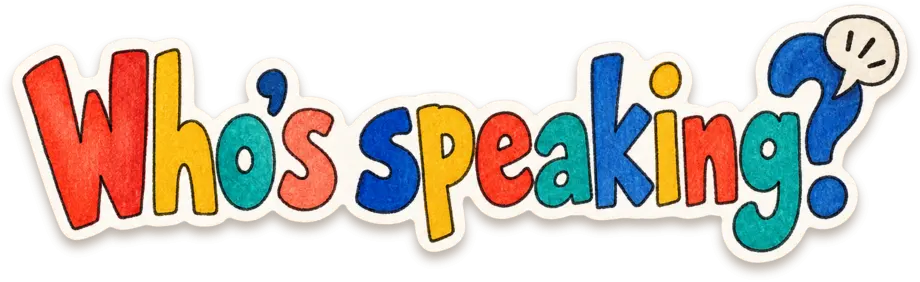
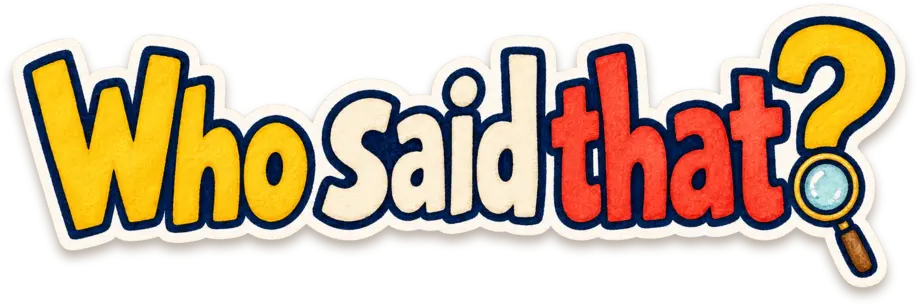
Redo the Huashuo animation as a modern mystery
A mystery paperback on a rainy street lets out lines nobody claims; on the
detective's board the cast (detective, suspect, witness, inspector) gets
pinned up, each line finds its speaker and each speaker a voice; the cast hops
into a Mac (local, free, checked by ear); case closed, an M4B audiobook.
Replaces the classical book and costumes, which Huashuo does not handle well.

diff --git a/site/showcases/huashuo/composition.js b/site/showcases/huashuo/composition.js
@@ -1,130 +1,185 @@
 // @ts-check
-// 话说 Huashuo, 21 seconds.
+// 话说 Huashuo, 21 seconds: a mystery novel becomes a multi-voice audiobook.
 //
-// 0.0   A Chinese novel drops open. "Who's speaking?" Three characters climb out of its pages:
-//       an old storyteller, a young woman, a cheeky boy.
-// 4.8   Each one speaks in turn, in a voice of their own: a coloured sound wave and a tag for
-//       each (old and warm, young and bright, cheeky). 16 voices to choose from.
-// 10.4  At night, on a Mac: they hop into the laptop. Synthesised on your own machine; free.
-// 15.4  Out comes the audiobook, with chapters, for your headphones: multi-voice audiobooks.
+// 0.0   A mystery paperback lands on a rainy street. Lines float out of it with no one to
+//       say them: "I was home all night!", "I heard a scream…", "Coffee first." Who said that?
+// 4.6   The detective's board: the cast gets pinned up and joined with red string, and each
+//       line finds its speaker (an LLM works out who says what). Then each character gets a
+//       voice of their own: calm and sharp, nervous and fast, old and warm, deep and gruff.
+// 10.6  At night, the whole cast hops into a laptop: the voices are made on your own Mac,
+//       free with a local LLM, and every line is checked by ear.
+// 15.6  Case closed: an audiobook with chapters, for your headphones.
 
-import { C } from '../../js/anim/kit.js';
+import { C, El, FONT } from '../../js/anim/kit.js';
 import assets from './assets.js';
+
+/** The cast, left to right: sprite, tape colour, and the string keys of its line and its voice. */
+const CAST = [
+  { name: 'detective', tape: C.mustard, line: 'lineDetective', voice: 'voiceDetective', h: 350 },
+  { name: 'suspect', tape: C.teal, line: 'lineSuspect', voice: 'voiceSuspect', h: 335 },
+  { name: 'witness', tape: C.pink, line: 'lineWitness', voice: 'voiceWitness', h: 315 },
+  { name: 'inspector', tape: C.red, line: 'lineInspector', voice: 'voiceInspector', h: 350 },
+];
 
 /** @type {import('../../js/anim/kit.js').Composition} */
 export default {
   duration: 21,
-  poster: 7.4,
+  poster: 9.6,
   base: import.meta.url,
   assets,
   strings: {
     en: {
-      who: "Who's\nspeaking?",
+      who: 'Who said that?',
       audiobooks: 'Multi-voice\naudiobooks',
-      old: 'old · warm',
-      young: 'young · bright',
-      cheeky: 'cheeky',
-      voices: '16 voices',
-      mac: 'on your Mac',
-      free: 'free, if you like',
-      m4b: 'M4B · chapters',
+      lineDetective: 'Nobody leaves.',
+      lineSuspect: 'I was home all night!',
+      lineWitness: 'I heard a scream…',
+      lineInspector: 'Coffee first.',
+      voiceDetective: 'calm · sharp',
+      voiceSuspect: 'nervous · fast',
+      voiceWitness: 'old · warm',
+      voiceInspector: 'deep · gruff',
+      cast: 'The cast',
+      llm: 'an LLM finds who said each line',
+      voices: '16 voices to cast from',
+      mac: 'made on your Mac',
+      free: 'free with a local LLM',
+      check: 'every line checked by ear',
+      closed: 'CASE CLOSED',
+      m4b: 'M4B · chapters · cover',
     },
     zh: {
-      who: '谁在说话？',
+      who: '这句话是谁说的？',
       audiobooks: '多角色有声书',
-      old: '沧桑 · 温和',
-      young: '年轻 · 清亮',
-      cheeky: '调皮',
-      voices: '16 种音色',
-      mac: '在 Mac 上本地合成',
-      free: '可以零成本',
-      m4b: 'M4B · 带章节',
+      lineDetective: '谁也别走。',
+      lineSuspect: '我整晚都在家！',
+      lineWitness: '我听见一声尖叫……',
+      lineInspector: '先来杯咖啡。',
+      voiceDetective: '冷静 · 犀利',
+      voiceSuspect: '紧张 · 语速快',
+      voiceWitness: '年迈 · 温和',
+      voiceInspector: '低沉 · 粗声',
+      cast: '登场人物',
+      llm: '大模型找出每句话是谁说的',
+      voices: '16 种音色任你挑选',
+      mac: '在你的 Mac 上本地合成',
+      free: '配本地大模型，零成本',
+      check: '每一句都会回听校对',
+      closed: '结案',
+      m4b: 'M4B · 章节 · 封面',
     },
   },
 
   build(k) {
-    // ---- 1. who's speaking? ----
-    const s1 = k.scene('bg_paper');
-    k.pushIn(s1, 0, 10.4, 1.04);
-    const book = k.sprite(s1, 'book', { x: 1000, y: 985, w: 620, z: 10 });
-    k.dropIn(book, 0.05, { from: -800 });
-    const who = k.textArt(s1, 'who', { x: 1000, y: 150, w: 820, h: 220 });
-    k.pop(who, 0.6, { dur: 0.5 });
-    k.sway(who, 1.4, 3, { deg: 1.4, period: 2 });
-    k.fadeOut(who, 4.6, 0.25);
-
-    // The characters climb out from behind the book.
-    const grandpa = k.sprite(s1, 'grandpa', { x: 730, y: 680, h: 390, z: 5 });
-    const girl = k.sprite(s1, 'girl', { x: 1000, y: 660, h: 390, z: 4 });
-    const boy = k.sprite(s1, 'boy', { x: 1265, y: 690, h: 330, z: 5 });
-    const people = [grandpa, girl, boy];
-    people.forEach((p, i) => {
-      k.slideIn(p, 1.4 + i * 0.4, { dx: 0, dy: 380, dur: 0.5, ease: 'back.out(2)' });
-      k.sway(p, 2.2 + i * 0.45, 8, { deg: 2, period: 1.5 + i * 0.2 });
+    // ---- 1. who said that? ----
+    const s1 = k.scene('bg_rain');
+    k.pushIn(s1, 0, 4.6, 1.04);
+    const novel = k.sprite(s1, 'novel', { x: 1000, y: 975, h: 470, rot: -4, z: 4 });
+    k.dropIn(novel, 0.1, { from: -900 });
+    k.sway(novel, 0.9, 3.7, { deg: 1, period: 2.4 });
+    // Three lines float up out of the book, nobody attached to them yet.
+    [
+      { key: 'lineSuspect', x: 750, y: 470, rot: -5 },
+      { key: 'lineWitness', x: 1250, y: 430, rot: 4 },
+      { key: 'lineInspector', x: 1010, y: 350, rot: -2 },
+    ].forEach(({ key, x, y, rot }, i) => {
+      const line = k.tag(s1, k.t(key), { x, y, rot, tape: null, size: 44 });
+      k.slideIn(line, 0.8 + i * 0.4, { dx: 1000 - x, dy: 620 - y, dur: 0.5, ease: 'back.out(1.6)' });
+      k.bob(line, 1.4 + i * 0.4, 3, { px: 6, period: 1.3 + i * 0.2 });
     });
-    k.confetti(s1, 1.5, { x: 1000, y: 600, n: 14, spread: 260 });
-
-    // ---- 2. a voice for each ----
-    /**
-     * A voice: a wavy stroke from the speaker's mouth, and a tag.
-     * @param {number} x @param {number} y @param {number} dir 1 right, -1 left
-     * @param {string} color @param {string} label @param {number} at @param {number} tx @param {number} ty where the tag goes
-     */
-    const voice = (x, y, dir, color, label, at, tx, ty) => {
-      let d = `M${x} ${y}`;
-      for (let i = 1; i <= 4; i++) d += ` Q${x + dir * (i * 34 - 17)} ${y + (i % 2 ? -38 : 38)} ${x + dir * i * 34} ${y}`;
-      const wave = k.stroke(s1, d, { color, width: 9 });
-      k.draw(wave, at, 0.45, { ease: 'power2.out' });
-      const tag = k.tag(s1, label, { x: tx, y: ty, rot: dir * 4, tape: color, size: 44 });
-      k.pop(tag, at + 0.2);
-    };
-    voice(650, 360, -1, C.teal, k.t('old'), 4.9, 665, 230);
-    k.hop(grandpa, 4.9, { h: 40 });
-    voice(1050, 300, 1, C.mustard, k.t('young'), 6.2, 1000, 200);
-    k.hop(girl, 6.2, { h: 40 });
-    voice(1330, 420, 1, C.red, k.t('cheeky'), 7.5, 1350, 300);
-    k.hop(boy, 7.5, { h: 55, n: 2 });
-    const voices = k.tag(s1, k.t('voices'), { x: 1000, y: 860, rot: -3, tape: C.pink, size: 60 });
-    voices.el.style.zIndex = '20';
-    k.pop(voices, 8.7);
-    k.sway(voices, 9.1, 1.3, { deg: 2 });
-
-    // ---- 3. on your Mac ----
-    const s2 = k.sheetIn(k.scene('bg_night'), 10.4, { from: 'right' });
-    k.pushIn(s2, 10.4, 5, 1.03);
-    const laptop = k.sprite(s2, 'laptop', { x: 1000, y: 920, w: 720, z: 4 });
-    k.slideIn(laptop, 10.7, { dx: 0, dy: 520, dur: 0.6 });
-    // The three, small, hop in through the screen one after another.
-    ['grandpa', 'girl', 'boy'].forEach((name, i) => {
-      const p = k.sprite(s2, name, { x: 620 + i * 380, y: 560, h: 260, z: 6 });
-      k.pop(p, 11.3 + i * 0.15);
-      k.hop(p, 12.0 + i * 0.3, { h: 60 });
-      k.moveTo(p, 12.4 + i * 0.3, { x: 1000 - (620 + i * 380), y: 120, dur: 0.45, ease: 'power2.in' });
-      k.zoom(p, 12.4 + i * 0.3, { scale: 0.1, dur: 0.45, ease: 'power2.in' });
-      k.hide(p, 12.85 + i * 0.3);
+    [k.doodle(s1, 'text', { x: 560, y: 380, size: 34, text: '?', color: C.mustard }), k.doodle(s1, 'text', { x: 1450, y: 340, size: 30, text: '?', color: C.mustard })].forEach((q, i) => {
+      k.pop(q, 2.1 + i * 0.2);
+      k.boil(q, 2.4, 2.2, { amp: 4, rot: 5 });
     });
-    k.boil(laptop, 13.3, 1.2, { amp: 2, rot: 0.6, fps: 10 });
-    const mac = k.tag(s2, k.t('mac'), { x: 1000, y: 180, rot: -2, tape: C.teal, size: 56 });
-    k.pop(mac, 13.4);
-    const free = k.tag(s2, k.t('free'), { x: 1180, y: 300, rot: 4, tape: C.mustard, size: 46 });
-    k.pop(free, 14.0);
-    const check = k.check(s2, { x: 780, y: 290, size: 60, color: C.mustard });
-    k.draw(check, 14.3, 0.3);
+    const who = k.textArt(s1, 'who', { x: 1000, y: 165, w: 880, h: 220 });
+    k.pop(who, 2.5, { dur: 0.5 });
+    k.sway(who, 3.0, 1.6, { deg: 1.4, period: 1.6 });
 
-    // ---- 4. the audiobook ----
-    const s3 = k.sheetIn(k.scene('bg_paper'), 15.4, { from: 'left' });
-    k.pushIn(s3, 15.4, 5.6, 1.03);
-    const audiobook = k.sprite(s3, 'audiobook', { x: 880, y: 940, h: 480, z: 4 });
-    k.pop(audiobook, 15.8, { dur: 0.5 });
-    k.sway(audiobook, 16.3, 4.7, { deg: 1.6 });
-    const phones = k.sprite(s3, 'headphones', { x: 1230, y: 900, h: 330, z: 5 });
+    // ---- 2. the cast, and a voice for each ----
+    const s2 = k.sheetIn(k.scene('bg_board'), 4.6, { from: 'right' });
+    k.pushIn(s2, 4.6, 6, 1.03);
+    const castTag = k.tag(s2, k.t('cast'), { x: 1000, y: 110, rot: -2, tape: C.red, size: 58, font: FONT.display });
+    k.pop(castTag, 4.9);
+    const xs = [628, 876, 1124, 1372];
+    const people = CAST.map((c, i) => {
+      const p = k.sprite(s2, c.name, { x: xs[i], y: 985, h: c.h, z: 4 });
+      k.pop(p, 5.0 + i * 0.18);
+      k.sway(p, 5.5 + i * 0.18, 5, { deg: 1.6, period: 1.4 + i * 0.15 });
+      return p;
+    });
+    // Pins above their heads, and the red string between them.
+    const pinY = CAST.map((c) => 985 - c.h - 28);
+    xs.forEach((x, i) => {
+      const pin = k.el(s2.cam.el, 'div', '', {
+        position: 'absolute', left: `${x - 14}px`, top: `${pinY[i] - 14}px`, width: '28px', height: '28px', borderRadius: '50%', zIndex: '6',
+        background: 'radial-gradient(circle at 35% 35%, #ff9a8a, #d9483b 55%, #8a1f17)', boxShadow: '0 4px 4px rgb(0 0 0 / 0.35)',
+      });
+      k.pop(k.actor(new El(pin, { opacity: 0 })), 5.3 + i * 0.12, { dur: 0.25, tilt: 0 });
+    });
+    const string = [0, 1, 2].map((i) =>
+      k.stroke(s2, `M${xs[i]} ${pinY[i]} Q${(xs[i] + xs[i + 1]) / 2} ${Math.max(pinY[i], pinY[i + 1]) + 46} ${xs[i + 1]} ${pinY[i + 1]}`, { color: C.red, width: 6 }),
+    );
+    k.draw(string, 5.8, 0.35, { stagger: 0.18 });
+
+    // Each line finds its speaker; then each speaker gets a voice.
+    const llm = k.tag(s2, k.t('llm'), { x: 1000, y: 220, rot: 1, tape: C.teal, size: 44 });
+    k.pop(llm, 6.4);
+    k.fadeOut(llm, 8.25, 0.2);
+    CAST.forEach((c, i) => {
+      const y = i % 2 ? 330 : 420;
+      const line = k.tag(s2, k.t(c.line), { x: xs[i], y, rot: i % 2 ? 4 : -4, tape: null, size: 32 });
+      k.pop(line, 6.7 + i * 0.3);
+      k.hop(people[i], 6.7 + i * 0.3, { h: 30 });
+      k.fadeOut(line, 8.2, 0.2);
+      const voice = k.tag(s2, k.t(c.voice), { x: xs[i], y, rot: i % 2 ? -3 : 3, tape: c.tape, size: 34, bg: C.paper });
+      k.pop(voice, 8.4 + i * 0.22);
+    });
+    const voices = k.tag(s2, k.t('voices'), { x: 1000, y: 220, rot: -2, tape: C.mustard, size: 50, bg: C.mustard });
+    k.pop(voices, 9.4);
+    k.sway(voices, 9.8, 0.8, { deg: 2.5, period: 0.8 });
+
+    // ---- 3. made on your Mac ----
+    const s3 = k.sheetIn(k.scene('bg_desk'), 10.6, { from: 'left' });
+    k.pushIn(s3, 10.6, 5, 1.03);
+    const laptop = k.sprite(s3, 'laptop', { x: 1000, y: 935, w: 640, z: 4 });
+    k.slideIn(laptop, 10.9, { dx: 0, dy: 520, dur: 0.6 });
+    CAST.forEach((c, i) => {
+      const x = 635 + i * 243;
+      const p = k.sprite(s3, c.name, { x, y: 600, h: 220, z: 6 });
+      k.pop(p, 11.3 + i * 0.12);
+      k.hop(p, 11.9 + i * 0.25, { h: 50 });
+      k.moveTo(p, 12.3 + i * 0.25, { x: 1000 - x, y: 140, dur: 0.42, ease: 'power2.in' });
+      k.zoom(p, 12.3 + i * 0.25, { scale: 0.1, dur: 0.42, ease: 'power2.in' });
+      k.hide(p, 12.72 + i * 0.25);
+    });
+    k.boil(laptop, 13.2, 2, { amp: 2, rot: 0.6, fps: 10 });
+    const mac = k.tag(s3, k.t('mac'), { x: 1000, y: 140, rot: -2, tape: C.teal, size: 52 });
+    const free = k.tag(s3, k.t('free'), { x: 1000, y: 245, rot: 2, tape: C.mustard, size: 44 });
+    const check = k.tag(s3, k.t('check'), { x: 1000, y: 345, rot: -1, tape: C.pink, size: 44 });
+    k.pop(mac, 13.1);
+    k.pop(free, 13.7);
+    k.pop(check, 14.3);
+    k.draw(k.check(s3, { x: 690, y: 262, size: 44, color: C.mustard }), 13.9, 0.25);
+    k.draw(k.check(s3, { x: 690, y: 362, size: 44, color: C.mustard }), 14.5, 0.25);
+
+    // ---- 4. case closed ----
+    const s4 = k.sheetIn(k.scene('bg_rain'), 15.6, { from: 'bottom' });
+    k.pushIn(s4, 15.6, 5.4, 1.03);
+    const phone = k.sprite(s4, 'phone', { x: 900, y: 965, h: 470, z: 4 });
+    k.pop(phone, 15.9, { dur: 0.5 });
+    k.sway(phone, 16.4, 4.6, { deg: 1.4 });
+    const phones = k.sprite(s4, 'headphones', { x: 1250, y: 930, h: 300, z: 5 });
     k.dropIn(phones, 16.3, { from: -700 });
     k.bob(phones, 17.0, 4, { px: 6, period: 1.3 });
-    const title = k.textArt(s3, 'audiobooks', { x: 1000, y: 210, w: 900, h: 300 });
+    const title = k.textArt(s4, 'audiobooks', { x: 1000, y: 200, w: 900, h: 290 });
     k.pop(title, 16.8, { dur: 0.5 });
     k.sway(title, 17.3, 3.7, { deg: 1.2, period: 2.4 });
-    const m4b = k.tag(s3, k.t('m4b'), { x: 1220, y: 490, rot: 5, tape: C.red, size: 44 });
-    k.pop(m4b, 17.6);
-    k.confetti(s3, 17.0, { x: 1000, y: 520, n: 22, spread: 320 });
+    const m4b = k.tag(s4, k.t('m4b'), { x: 1250, y: 520, rot: 4, tape: C.teal, size: 40 });
+    k.pop(m4b, 17.5);
+    const stamp = k.tag(s4, k.t('closed'), { x: 780, y: 540, rot: -12, tape: null, size: 64, bg: C.red, color: C.paper, font: FONT.display });
+    stamp.el.style.zIndex = '10';
+    k.tl.fromTo(stamp, { scale: 2.2, opacity: 0 }, { scale: 1, opacity: 1 }, 18.3, { dur: 0.22, ease: 'power3.in' });
+    k.shake(s4, 18.52, 0.35, 10);
+    k.confetti(s4, 17.0, { x: 1000, y: 480, n: 20, spread: 320 });
   },
 };

diff --git a/site/js/hashes.js b/site/js/hashes.js
@@ -26,19 +26,21 @@ export const HASHES = {
   'showcases/8800-simulator/assets/turn.zh.webp': '6a4c5b0eff',
   'showcases/8800-simulator/assets/worked.en.webp': '6320c52df1',
   'showcases/8800-simulator/assets/worked.zh.webp': 'ec68dfcafb',
-  'showcases/huashuo/assets/audiobook.webp': '41cb2d8491',
-  'showcases/huashuo/assets/audiobooks.en.webp': 'c3f1551dc8',
-  'showcases/huashuo/assets/audiobooks.zh.webp': '6e031f251a',
-  'showcases/huashuo/assets/bg_night.webp': '24a496a032',
-  'showcases/huashuo/assets/bg_paper.webp': 'd921c33b82',
-  'showcases/huashuo/assets/book.webp': '5ccab8edfe',
-  'showcases/huashuo/assets/boy.webp': 'fc184186e8',
-  'showcases/huashuo/assets/girl.webp': '0ec29add5c',
-  'showcases/huashuo/assets/grandpa.webp': 'ba82a0af3c',
-  'showcases/huashuo/assets/headphones.webp': 'ba323670b4',
-  'showcases/huashuo/assets/laptop.webp': 'f82e47f59e',
-  'showcases/huashuo/assets/who.en.webp': 'eb66a3c599',
-  'showcases/huashuo/assets/who.zh.webp': '2ac6a7bf73',
+  'showcases/huashuo/assets/audiobooks.en.webp': '5a77861ffa',
+  'showcases/huashuo/assets/audiobooks.zh.webp': '8e96239048',
+  'showcases/huashuo/assets/bg_board.webp': 'be6e97750d',
+  'showcases/huashuo/assets/bg_desk.webp': 'ecdf4ca6b8',
+  'showcases/huashuo/assets/bg_rain.webp': 'c2f8e4d250',
+  'showcases/huashuo/assets/detective.webp': '95665f4907',
+  'showcases/huashuo/assets/headphones.webp': '603bcb66d6',
+  'showcases/huashuo/assets/inspector.webp': '5d93ac8b6a',
+  'showcases/huashuo/assets/laptop.webp': 'e3d117b3d2',
+  'showcases/huashuo/assets/novel.webp': '73788ed2bd',
+  'showcases/huashuo/assets/phone.webp': '85a43db9b0',
+  'showcases/huashuo/assets/suspect.webp': '4f526ca0ed',
+  'showcases/huashuo/assets/who.en.webp': 'a93252d1fb',
+  'showcases/huashuo/assets/who.zh.webp': '1bb3da3c21',
+  'showcases/huashuo/assets/witness.webp': '1e62dd19b7',
   'showcases/leibniz-stepped-reckoner/assets/bg_paper.webp': 'fb1ec6887b',
   'showcases/leibniz-stepped-reckoner/assets/bg_study.webp': '687267835a',
   'showcases/leibniz-stepped-reckoner/assets/crank.en.webp': '6d24cd8346',

diff --git a/site/showcases/huashuo/assets.js b/site/showcases/huashuo/assets.js
@@ -2,17 +2,19 @@
 // sizes. Do not edit.
 /** @type {Record<string, import('../../js/anim/kit.js').AssetInfo>} */
 export default {
-  'audiobook': { file: 'audiobook.webp', w: 660, h: 541 },
-  'audiobooks.en': { file: 'audiobooks.en.webp', w: 920, h: 389 },
-  'audiobooks.zh': { file: 'audiobooks.zh.webp', w: 920, h: 254 },
-  'bg_night': { file: 'bg_night.webp', w: 1600, h: 800 },
-  'bg_paper': { file: 'bg_paper.webp', w: 1600, h: 800 },
-  'book': { file: 'book.webp', w: 660, h: 558 },
-  'boy': { file: 'boy.webp', w: 450, h: 660 },
-  'girl': { file: 'girl.webp', w: 276, h: 660 },
-  'grandpa': { file: 'grandpa.webp', w: 592, h: 660 },
-  'headphones': { file: 'headphones.webp', w: 660, h: 521 },
-  'laptop': { file: 'laptop.webp', w: 660, h: 507 },
-  'who.en': { file: 'who.en.webp', w: 920, h: 282 },
-  'who.zh': { file: 'who.zh.webp', w: 920, h: 308 },
+  'audiobooks.en': { file: 'audiobooks.en.webp', w: 920, h: 398 },
+  'audiobooks.zh': { file: 'audiobooks.zh.webp', w: 920, h: 265 },
+  'bg_board': { file: 'bg_board.webp', w: 1600, h: 800 },
+  'bg_desk': { file: 'bg_desk.webp', w: 1600, h: 800 },
+  'bg_rain': { file: 'bg_rain.webp', w: 1600, h: 800 },
+  'detective': { file: 'detective.webp', w: 352, h: 660 },
+  'headphones': { file: 'headphones.webp', w: 660, h: 525 },
+  'inspector': { file: 'inspector.webp', w: 432, h: 660 },
+  'laptop': { file: 'laptop.webp', w: 660, h: 470 },
+  'novel': { file: 'novel.webp', w: 457, h: 660 },
+  'phone': { file: 'phone.webp', w: 379, h: 660 },
+  'suspect': { file: 'suspect.webp', w: 334, h: 660 },
+  'who.en': { file: 'who.en.webp', w: 920, h: 306 },
+  'who.zh': { file: 'who.zh.webp', w: 920, h: 254 },
+  'witness': { file: 'witness.webp', w: 343, h: 660 },
 };

diff --git a/site/index.html b/site/index.html
@@ -28,7 +28,7 @@
         "./js/focus.js": "./js/focus.js?v=13677ddece",
         "./js/grid-width.js": "./js/grid-width.js?v=3c45214bf3",
         "./js/grid.js": "./js/grid.js?v=a452315362",
-        "./js/hashes.js": "./js/hashes.js?v=709af74a9a",
+        "./js/hashes.js": "./js/hashes.js?v=7134198ce7",
         "./js/i18n.js": "./js/i18n.js?v=a37e774482",
         "./js/icons.js": "./js/icons.js?v=ff792a4d99",
         "./js/layout.js": "./js/layout.js?v=763a89a89b",
@@ -38,8 +38,8 @@
         "./js/tiles.js": "./js/tiles.js?v=f6ee825f6e",
         "./showcases/8800-simulator/assets.js": "./showcases/8800-simulator/assets.js?v=68e060e30a",
         "./showcases/8800-simulator/composition.js": "./showcases/8800-simulator/composition.js?v=bb7cd89c72",
-        "./showcases/huashuo/assets.js": "./showcases/huashuo/assets.js?v=37f0378c37",
-        "./showcases/huashuo/composition.js": "./showcases/huashuo/composition.js?v=b8f1f8e578",
+        "./showcases/huashuo/assets.js": "./showcases/huashuo/assets.js?v=294002dad4",
+        "./showcases/huashuo/composition.js": "./showcases/huashuo/composition.js?v=b09917443f",
         "./showcases/index.js": "./showcases/index.js?v=6b50a78551",
         "./showcases/leibniz-stepped-reckoner/assets.js": "./showcases/leibniz-stepped-reckoner/assets.js?v=7a47f47b9c",
         "./showcases/leibniz-stepped-reckoner/composition.js": "./showcases/leibniz-stepped-reckoner/composition.js?v=c02dc3853a",
